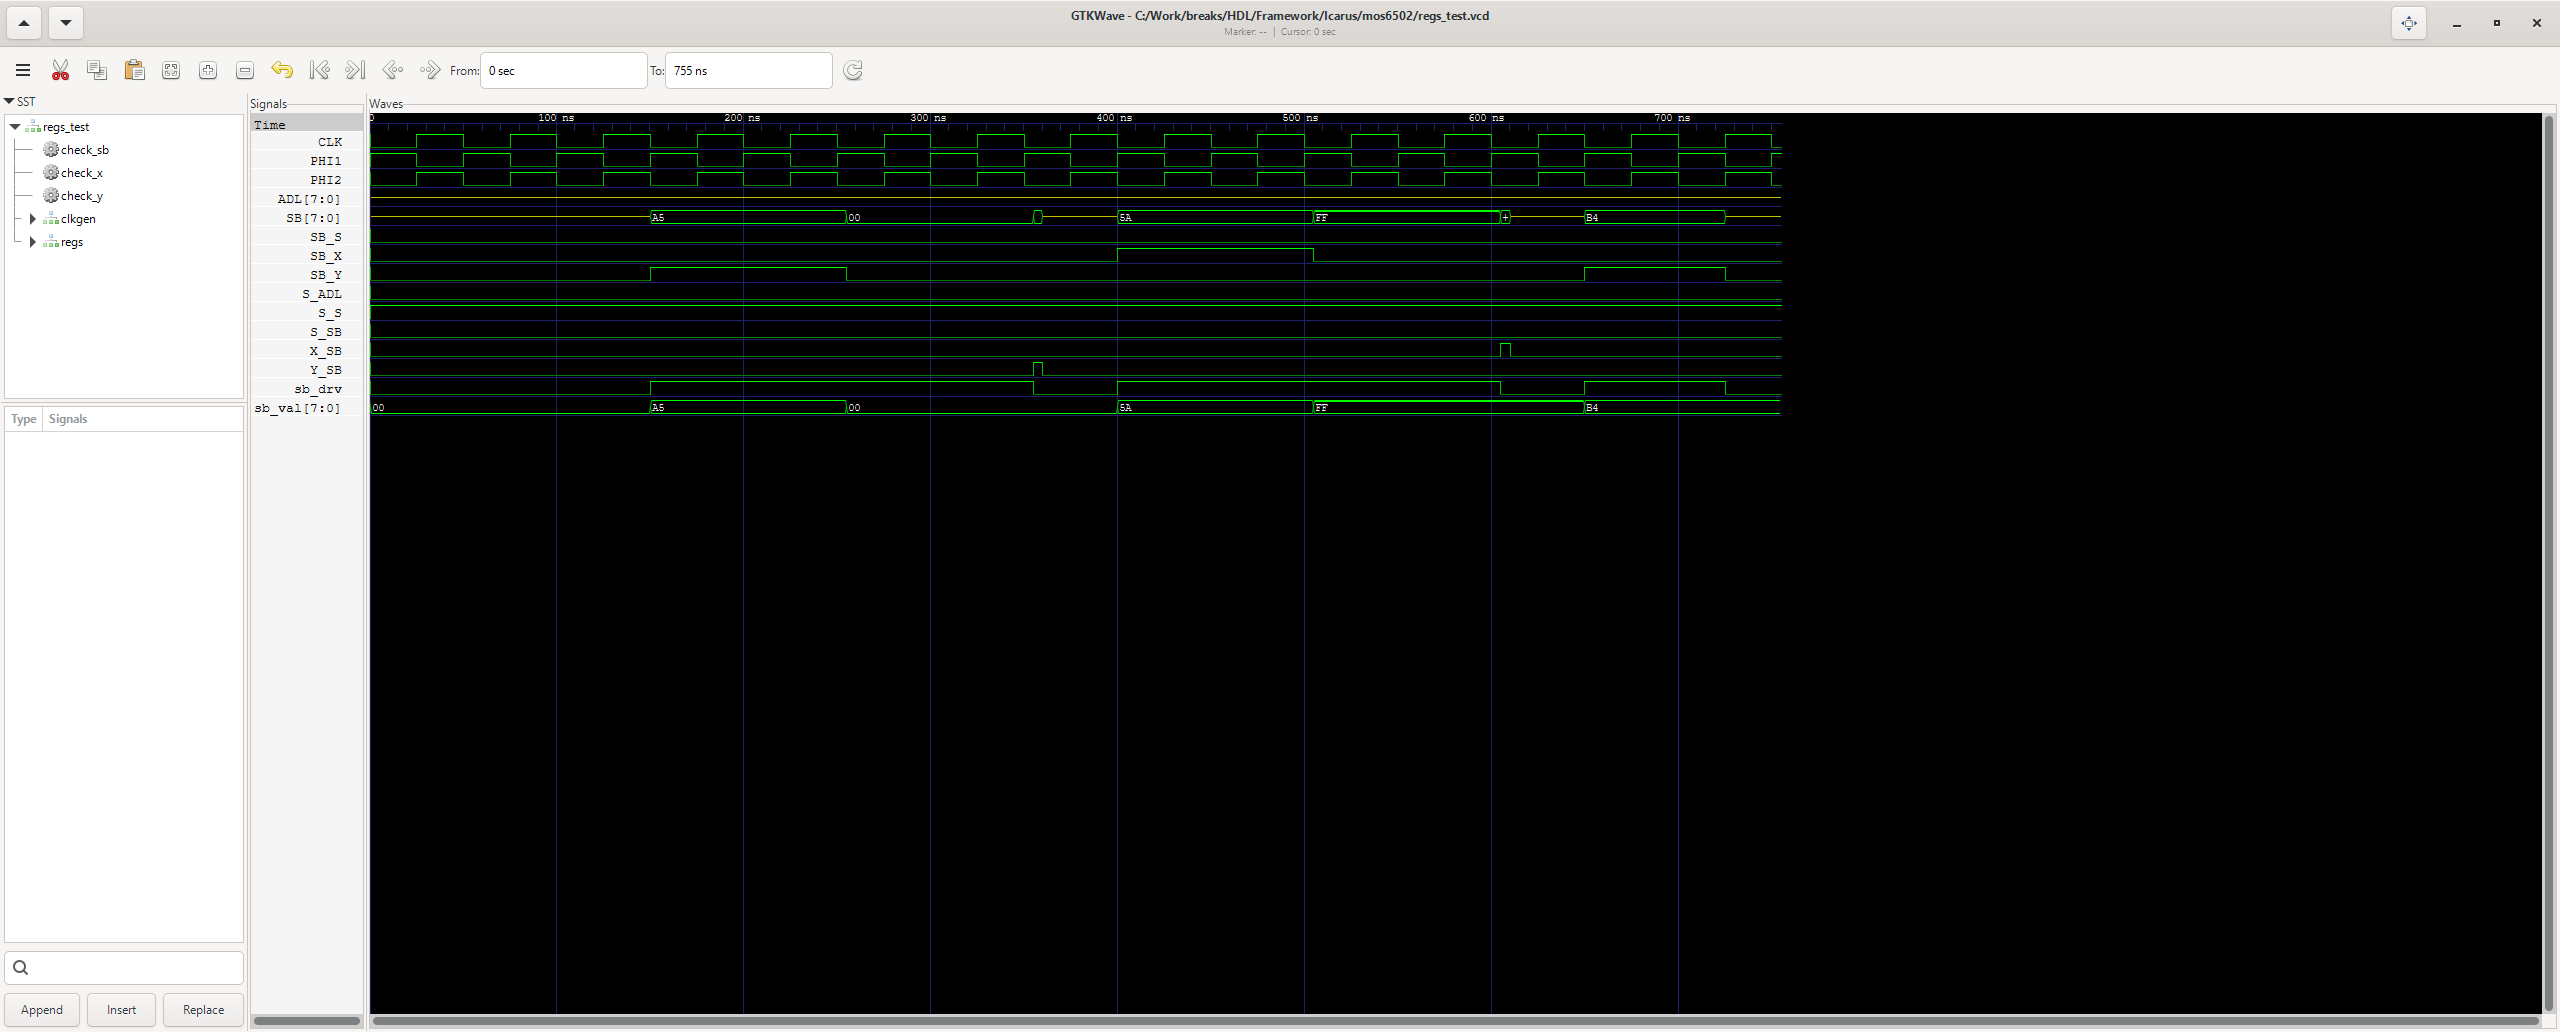
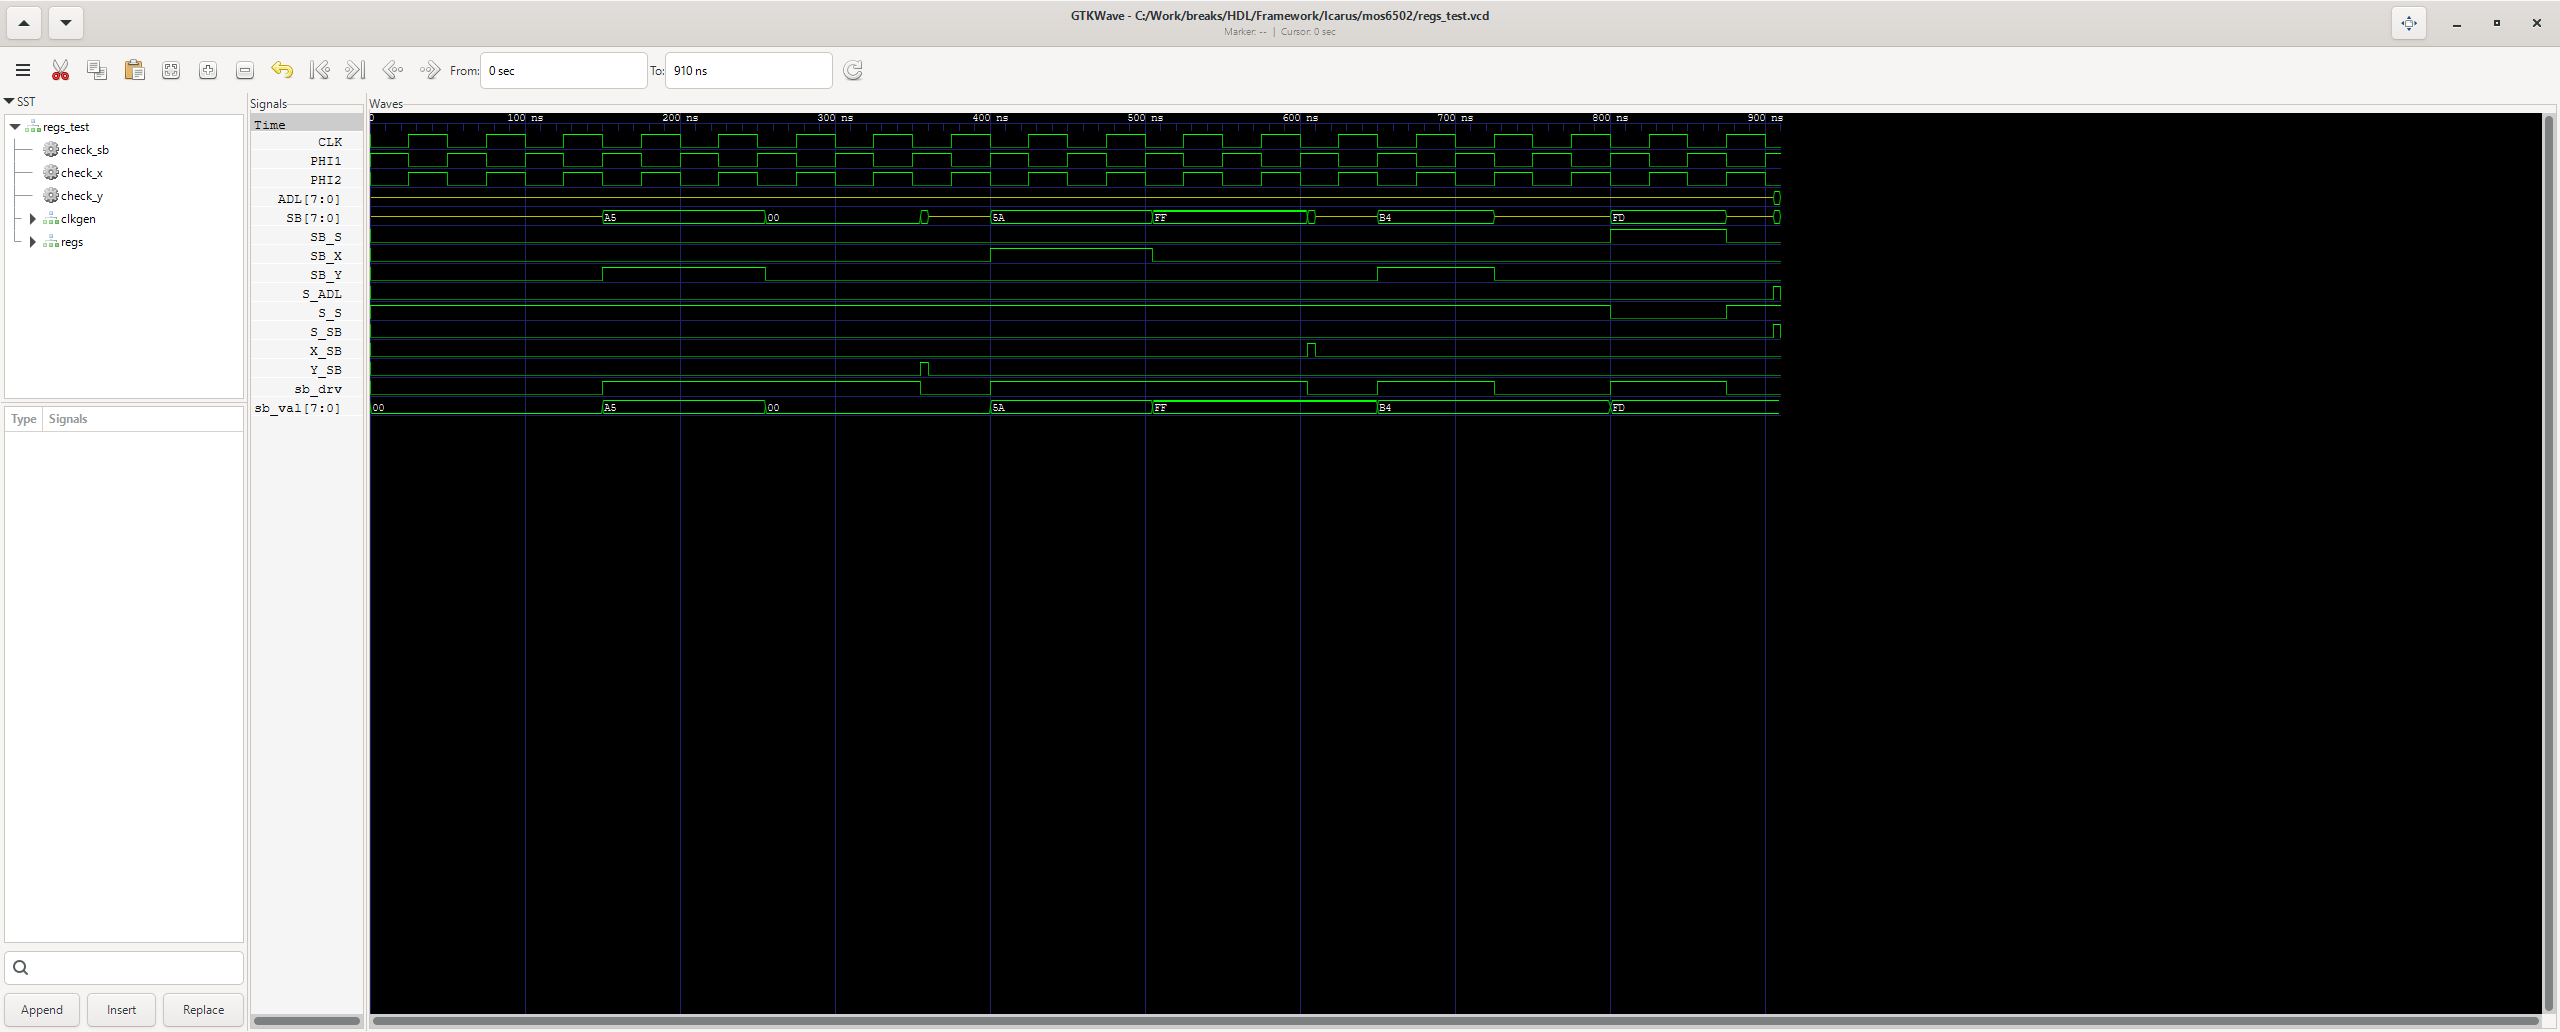
6502 tests: extend regs test with the S register
regs_test now also loads S from SB (SB_S), verifies the hold, and checks
the S_SB/S_ADL store paths (direct polarity) - 14 checks, TEST PASS.
Waveform screenshot regenerated.

diff --git a/HDL/Framework/Icarus/mos6502/Waves.md b/HDL/Framework/Icarus/mos6502/Waves.md
@@ -36,4 +36,4 @@ Scripts/gtkw_capture_all.sh
 | pc_control_test | TEST PASS (200 checks) | ![waves/pc_control_test.png](waves/pc_control_test.png) |
 | regs_control_test | TEST PASS (880 checks) | ![waves/regs_control_test.png](waves/regs_control_test.png) |
 | pc_test | waveform | ![waves/pc_test.png](waves/pc_test.png) |
-| regs_test | TEST PASS (9 checks) | ![waves/regs_test.png](waves/regs_test.png) |
+| regs_test | TEST PASS (14 checks) | ![waves/regs_test.png](waves/regs_test.png) |
